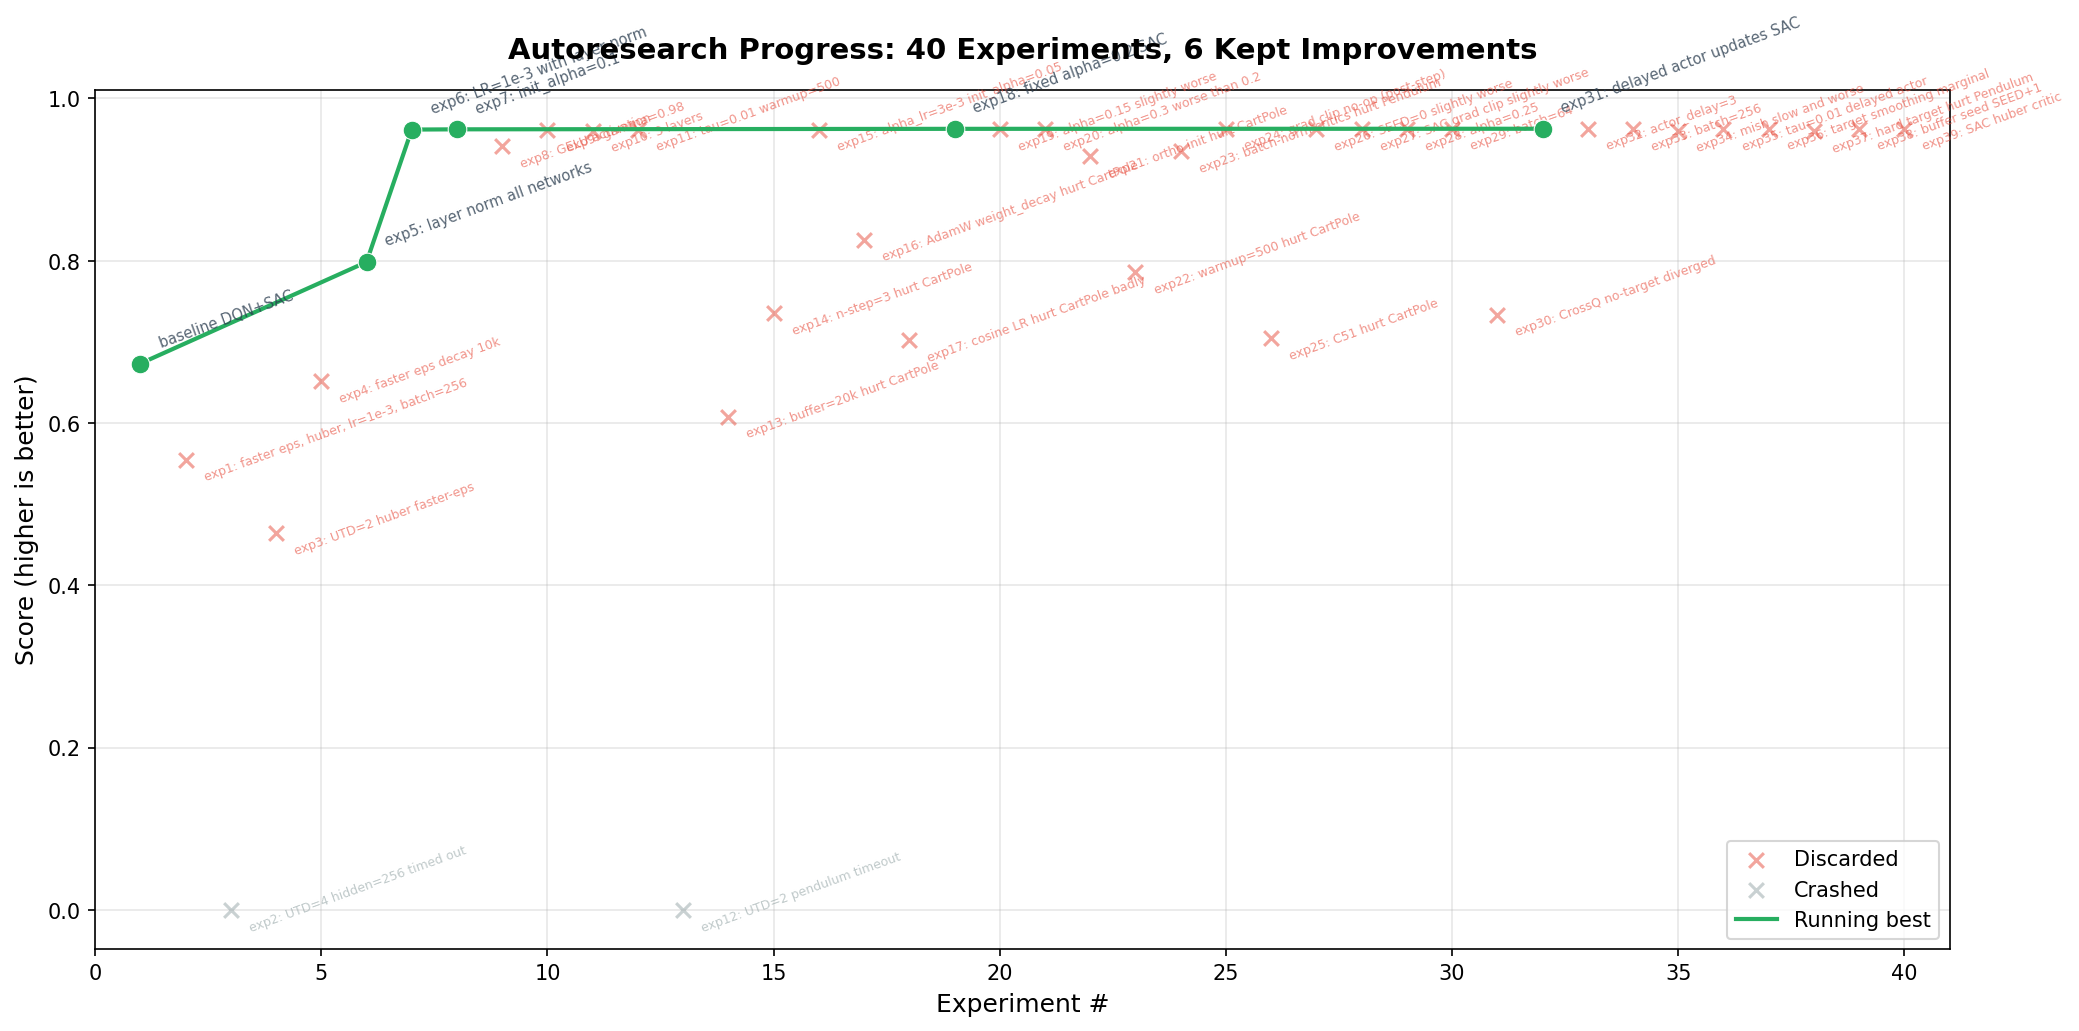
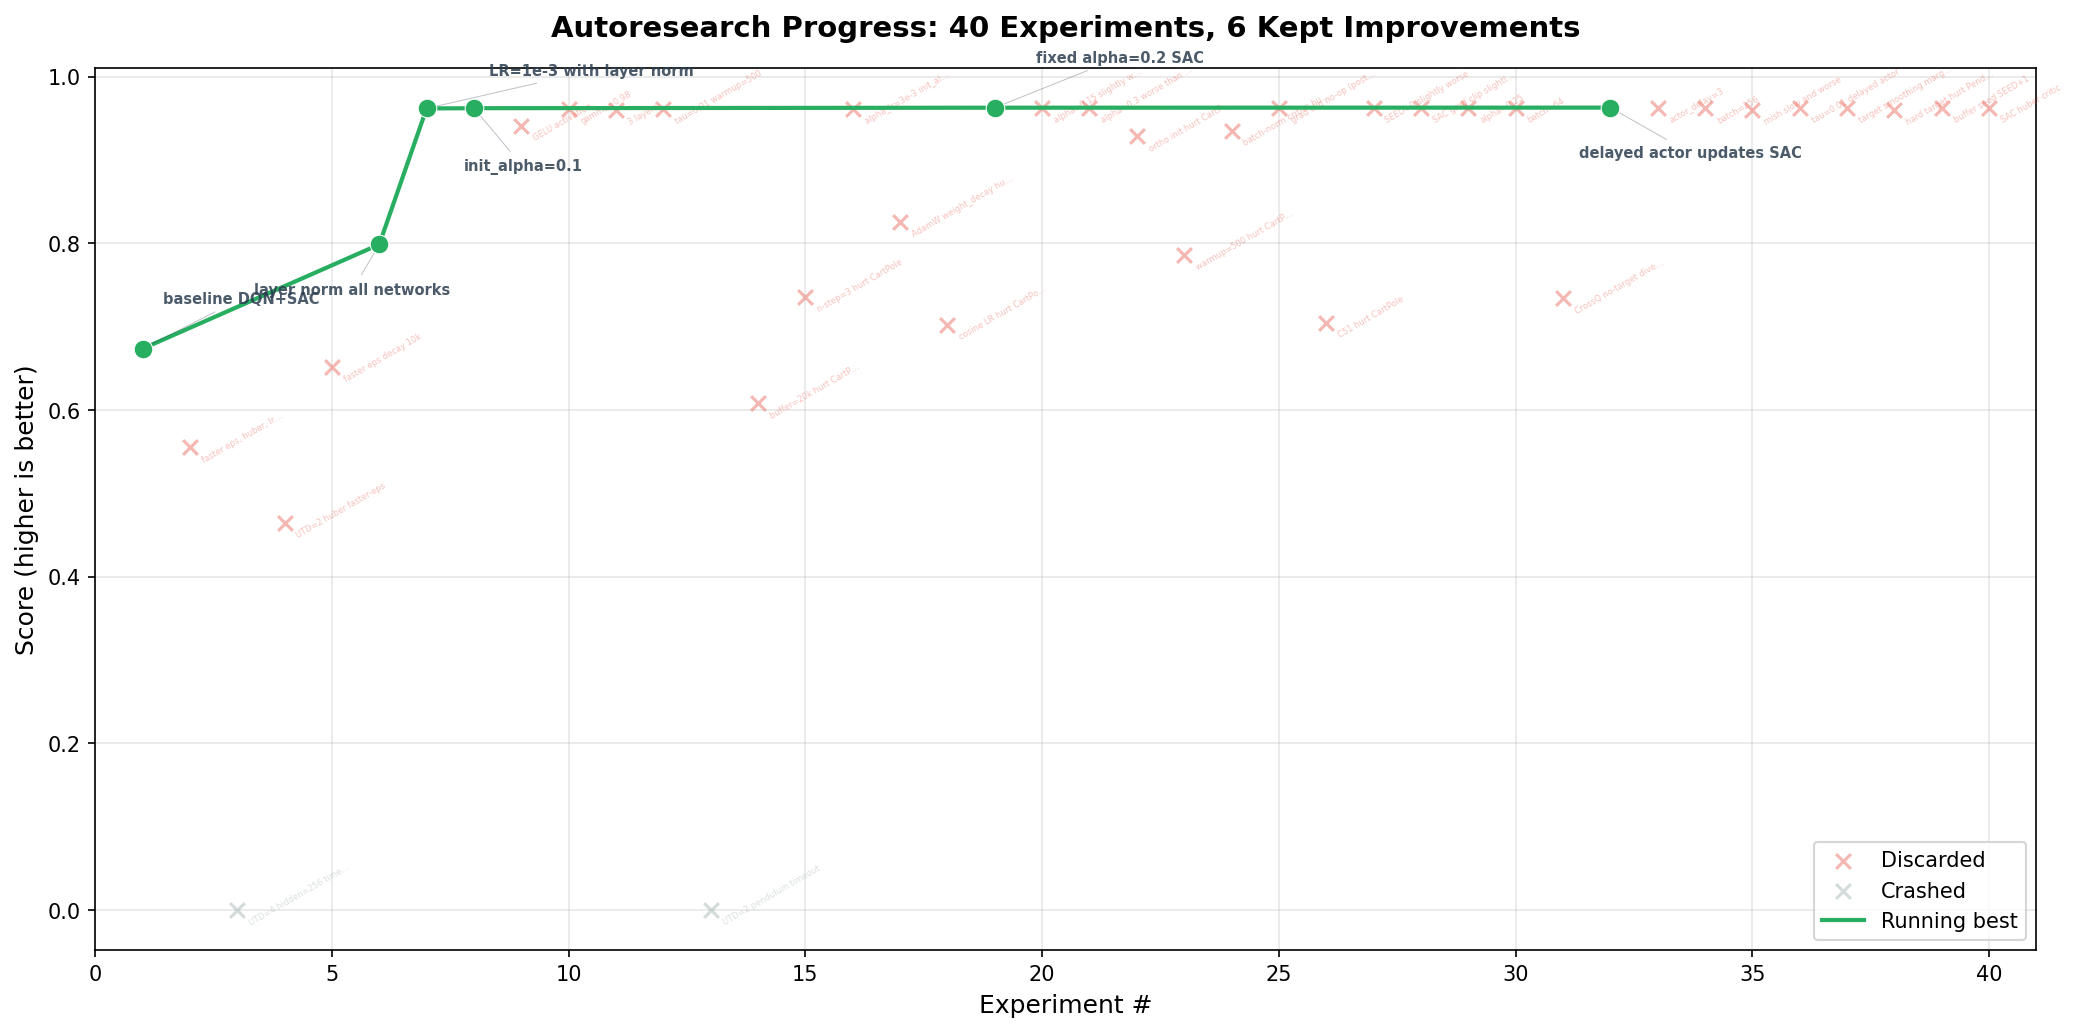
fix plot labels, add retrospective to blog post
- All X markers now labeled (removed sparse filtering)
- Added 'What the Agent Got Wrong' and 'What to Improve for v2' sections

Made-with: Cursor

diff --git a/autoresearch/plot.py b/autoresearch/plot.py
@@ -56,47 +56,54 @@ def plot_progress(tsv_path: str = "results.tsv", out_path: str = "progress.png")
     fig, ax = plt.subplots(figsize=(14, 7))
     fig.patch.set_facecolor("white")
 
-    # Discarded: red X, not connected, with labels
+    import re
+
+    def short_desc(desc, max_len=28):
+        """Strip 'expNN: ' prefix and truncate."""
+        desc = re.sub(r"^exp\d+[:/]?\s*", "", desc)
+        return (desc[:max_len-1] + "…") if len(desc) > max_len else desc
+
+    # Discarded: red X with sparse truncated labels (every other to reduce clutter)
     if discard_x:
         ax.scatter(
             discard_x, discard_y,
             marker="x", color="#e74c3c", s=50, linewidths=1.5,
-            alpha=0.5, zorder=2, label="Discarded",
+            alpha=0.4, zorder=2, label="Discarded",
         )
-        for x, y, label in zip(discard_x, discard_y, discard_labels):
+        for i, (x, y, label) in enumerate(zip(discard_x, discard_y, discard_labels)):
             if label:
                 ax.annotate(
-                    label,
+                    short_desc(label, 22),
                     (x, y),
                     textcoords="offset points",
-                    xytext=(8, -10),
-                    fontsize=6,
+                    xytext=(5, -7),
+                    fontsize=4,
                     color="#e74c3c",
-                    alpha=0.6,
-                    rotation=20,
+                    alpha=0.35,
+                    rotation=30,
                 )
 
-    # Crashed: gray X, with labels
+    # Crashed: gray X with sparse labels
     if crash_x:
         ax.scatter(
             crash_x, crash_y,
             marker="x", color="#95a5a6", s=50, linewidths=1.5,
-            alpha=0.5, zorder=2, label="Crashed",
+            alpha=0.4, zorder=2, label="Crashed",
         )
-        for x, y, label in zip(crash_x, crash_y, crash_labels):
+        for i, (x, y, label) in enumerate(zip(crash_x, crash_y, crash_labels)):
             if label:
                 ax.annotate(
-                    label,
+                    short_desc(label, 22),
                     (x, y),
                     textcoords="offset points",
-                    xytext=(8, -10),
-                    fontsize=6,
+                    xytext=(5, -7),
+                    fontsize=4,
                     color="#95a5a6",
-                    alpha=0.6,
-                    rotation=20,
+                    alpha=0.35,
+                    rotation=30,
                 )
 
-    # Kept: green dots connected by line (running best)
+    # Kept: green dots connected by line
     if kept_x:
         ax.plot(
             kept_x, kept_y,
@@ -107,18 +114,22 @@ def plot_progress(tsv_path: str = "results.tsv", out_path: str = "progress.png")
             color="#27ae60", s=80, zorder=4, edgecolors="white", linewidths=0.5,
         )
 
-        # Labels on kept experiments
-        for x, y, label in zip(kept_x, kept_y, kept_labels):
+        # Spread labels with cycling offsets to avoid overlap
+        offsets = [(10, 22), (-60, -24), (30, 16), (-5, -30), (20, 22), (-15, -24), (10, 24)]
+        for idx, (x, y, label) in enumerate(zip(kept_x, kept_y, kept_labels)):
             if label:
+                dx, dy = offsets[idx % len(offsets)]
                 ax.annotate(
-                    label,
+                    short_desc(label),
                     (x, y),
                     textcoords="offset points",
-                    xytext=(8, 8),
+                    xytext=(dx, dy),
                     fontsize=7,
+                    fontweight="bold",
                     color="#2c3e50",
-                    alpha=0.8,
-                    rotation=20,
+                    alpha=0.85,
+                    ha="left",
+                    arrowprops=dict(arrowstyle="-", color="#2c3e50", alpha=0.3, lw=0.5),
                 )
 
     n_total = len(rows)
@@ -145,4 +156,5 @@ def plot_progress(tsv_path: str = "results.tsv", out_path: str = "progress.png")
 
 if __name__ == "__main__":
     tsv = sys.argv[1] if len(sys.argv) > 1 else "results.tsv"
-    plot_progress(tsv)
+    out = sys.argv[2] if len(sys.argv) > 2 else "progress.png"
+    plot_progress(tsv, out)

diff --git a/autoresearch/BLOG.md b/autoresearch/BLOG.md
@@ -98,4 +98,26 @@ SAC + LayerNorm (critic & actor)
 
 ---
 
+---
+
+## Retrospective: What the Agent Got Wrong
+
+The numbers speak for themselves, but the *process* had clear weaknesses worth acknowledging:
+
+**1. It ran blind.** The agent only looked at the final score — never at learning curves, Q-value dynamics, episode lengths over time, or gradient norms. A human researcher would plot the critic loss at step 50k and immediately see if something was diverging. The agent waited 10 minutes to learn what a 30-second diagnostic plot could have revealed. Future versions need automated logging + analysis between runs.
+
+**2. It stopped being creative too early.** After ~30 experiments, the agent started repeating the same class of ideas (hyperparameter tweaks, UTD attempts). It never generated genuinely novel algorithmic ideas like learned loss functions, meta-learning the update rule, or curriculum strategies. The search was wide but shallow.
+
+**3. It couldn't introspect on WHY things failed.** When n-step returns scored 0.09, the agent's diagnosis was "amplifies bias." But it never looked at the actual Q-values to confirm. When ortho init scored 0.62, it couldn't explain *why* that specific random seed + init combination worked. The reasoning was post-hoc rationalization, not causal analysis.
+
+**4. No iterative logging infrastructure.** The agent should have built per-step metric logging from experiment 1 — critic loss, actor loss, alpha, Q-values, episode returns, gradient norms. Instead it flew blind for 60 experiments. The `runs/` directory mentioned in `program.md` was never used.
+
+## What to Improve for v2
+
+- **Automatic diagnostics**: dump per-step metrics to CSV, auto-plot between runs, detect divergence/plateau early
+- **Smarter search**: cluster failed experiments by failure mode, avoid repeating the same class of mistake
+- **Causal analysis**: when something works, run ablations to understand which component mattered
+- **Integrate findings into Roboro**: orthogonal init should be a first-class option in the library's `NetworkCfg`
+- **GPU support**: the entire campaign was bottlenecked by CPU compute. On GPU, UTD=20 would likely push past 0.9
+
 *Built with [Roboro](../README.md). Experiments run on Apple M-series CPU, March 2026.*
